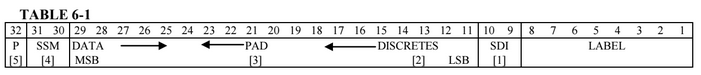
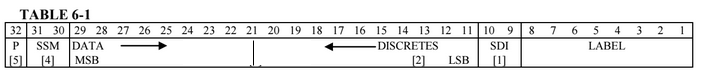
fixed some definitions, changed picture

Changed region(s): [[0.2696, 0.5333, 0.3894, 0.6667], [0.3295, 0.72, 0.3894, 0.88]]

diff --git a/docs/UsersManual/Dataprocgears.md b/docs/UsersManual/Dataprocgears.md
@@ -14,11 +14,11 @@ In other words, right now, the landing gear is down and locked in place.
 
 #Data input
 
-Now onto something a little more complicated: how wilco receives data, and what it does to process it.  Originally, when data, like the GSEL_ND for example, is collected by the plane, before it is sent down to the ground, it is in a binary format.  Each true/false data point is recorded as one number in a 32 bit binary chain (each number in the chain is a bit, labeled in this program from bit1 to bit32, with bit1 on the far right, although in other contexts the first bit might be labeled bit0), so that a 1 in the fifteenth bit (for example) will always mean that the same condition is being marked "true."  In this way, by looking at the proper bit in the chain, we can decipher all of the information in the report.  
+Now onto something a little more complicated: how wilco receives data, and what it does to process it.  Originally, when data, like the GSEL_ND for example, is collected by the plane, before it is sent down to the ground, it is in a binary format.  Each true/false data point is recorded as one number in a 32 bit binary chain (each number in the chain is a bit, labeled in this program from bit1 to bit32, with bit1 on the far right, although in other contexts the first bit might be labeled bit0), so that a 1 in the fifteenth bit (for example) will always mean that the same condition is being marked "true."  In this way, by looking at the proper bits in the chain, we can decipher all of the information in the report.  
 
 ##A Little "Bit" of Binary
 
-In order to understand exactly what is happening, it is necessary to have a some knowledge of the ins and outs (or ons and offs) of binary.  Binary is a base 2 number system, which is to say that it has two numbers: 0 and 1.  So 0 is 0, 1 is 1, but 2 in decimal is 10 in binary.  3 is 11, 4 is 100, and so on and so forth.  Since binary only has two possible states for a number, we can perform certain operations on binary numbers that would be meaningless, or at least not very useful, in decimal.  One of these is the "AND" function.  This function compares the states of each bit of one binary number to its corresponding bit in another number.  If the bits match, the end value will return the value of the bit in question (two 0s will return 0, two 1s will return 1).  If they do not match, the function will return 0.  In other words, it is a function to see if both number A **and** number B are 1 in that bit.  So, for example, testing 1010 AND 1100 will return the number 1000, because bit1 in both of them is a 0, so the function returns 0, they don't match in bits 2 or 3, and in the end, only bit4 in each of them is equal to 1.  The AND function returns a 1 for a bit only if both of the corresponding bits in the factors are also 1.  Any other combination returns a 0 for that bit.  
+In order to understand exactly what is happening, it is necessary to have a some knowledge of the ins and outs (or ons and offs) of binary.  Binary is a base 2 number system, which is to say that it has two numbers: 0 and 1.  So 0 is 0, 1 is 1, but 2 in decimal is 10 in binary.  3 is 11, 4 is 100, and so on and so forth.  Since binary only has two possible states for a number, we can perform certain operations on binary numbers that would be meaningless, or at least not very useful, in decimal.  One of these is the "AND" function.  This function compares the states of each bit of one binary number to its corresponding bit in another number.  If the bits match, the end value will return the value of the bit in question (two 0s will return 0, two 1s will return 1).  If they do not match, the function will return 0.  In other words, it is a function to see if both number A *and* number B are 1 in that bit.  So, for example, testing 1010 AND 1100 will return the number 1000, because bit1 in both of them is a 0, so the function returns 0, they don't match in bits 2 or 3, and in the end, only bit4 in each of them is equal to 1.  The AND function returns a 1 for a bit only if both of the corresponding bits in the factors are also 1.  Any other combination returns a 0 for that bit.  
 
 There are many things one can do with the AND function; one of them is to test the state of each bit individually; in other words, to extract a wanted bit from the whole chain.  This is done by running an AND function with a 1 in one bit and 0s in all the rest.  For example, 1001100 AND 1000 returns 1000; the program can then check whether this value equals 1000; if it does, the value of the original bit is 1, and the program can display the corresponding information accordingly.  
 
@@ -28,7 +28,7 @@ Inside the plane itself, from system to system, data is exchanged in binary, in 
 From right to left: 
 * The Label tells in what order information was recorded, and what kind of information it is.  
 * The SDI, simply put, tells the program which side of the plane the information is coming from.  It is not always used.
-* The useful part of the report is bits 11-29, which contains either Discretes (individual bits each with a meaning), Data (strings of bits that collectively have one meaning), or some hybrid of both, as in the example.  Pad is whatever bits are left over after everything has been entered; extra bits that don't mean anything.  
+* The useful part of the report is bits 11-29, which contains either Discretes (individual bits each with a meaning), Data (strings of bits that together define one avionic parameter), or some hybrid of both, as in the example.  
 * Note that bits in the Data section are ordered from left to right as "Most Significant Bits" (MSB) to "Least Significant Bits" (LSB), as shown.  
 * The SSM, or Sign/Status Matrix, tells the program whether the system is malfunctioning, or if there are errors in data collection.  
 * The Parity bit is used to make the sum of all the bits odd.  By doing this, if there was an error in the transmission of one of the bits, the total with the parity bit will be even, the program can detect the error, and ask for the data to be retransmitted.  
